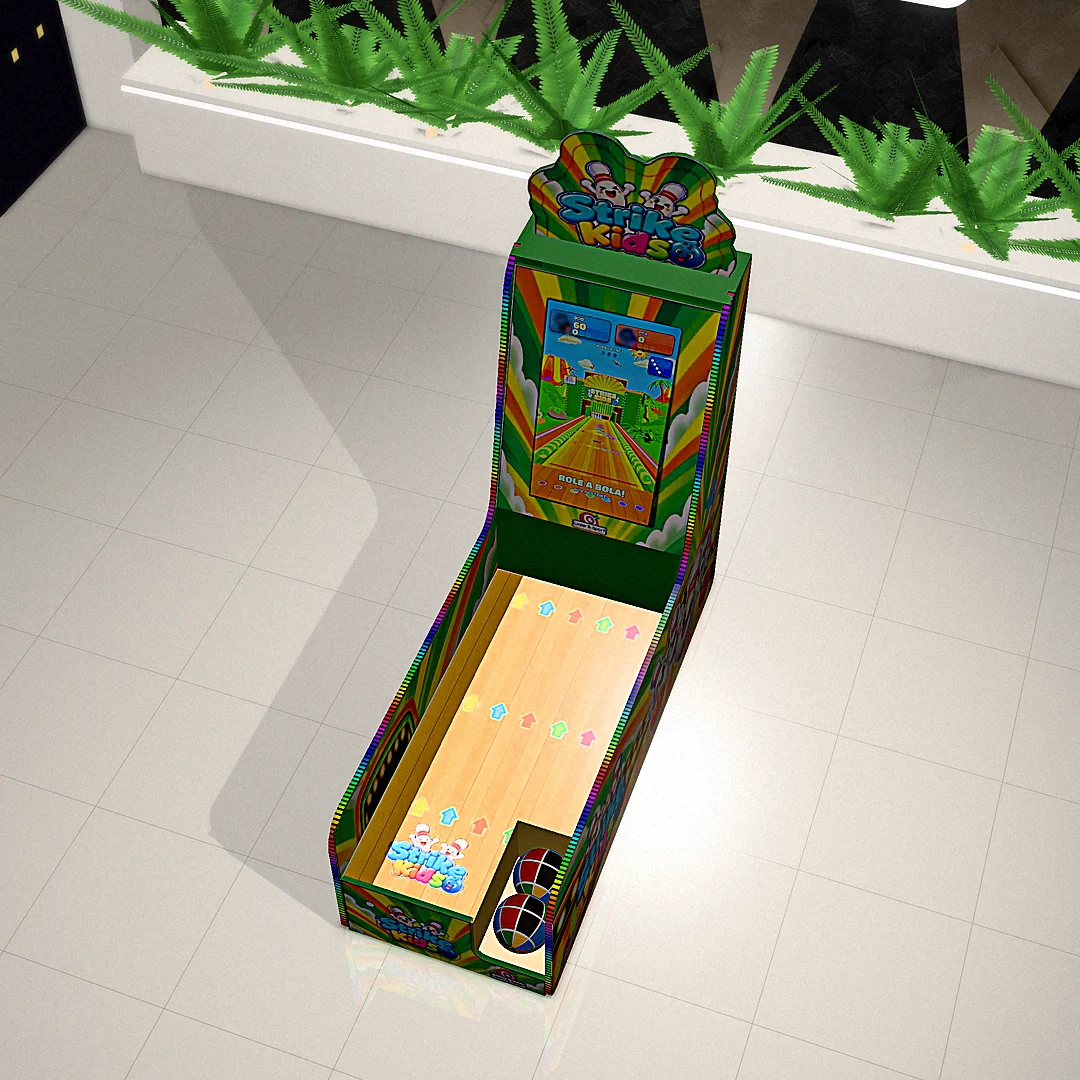
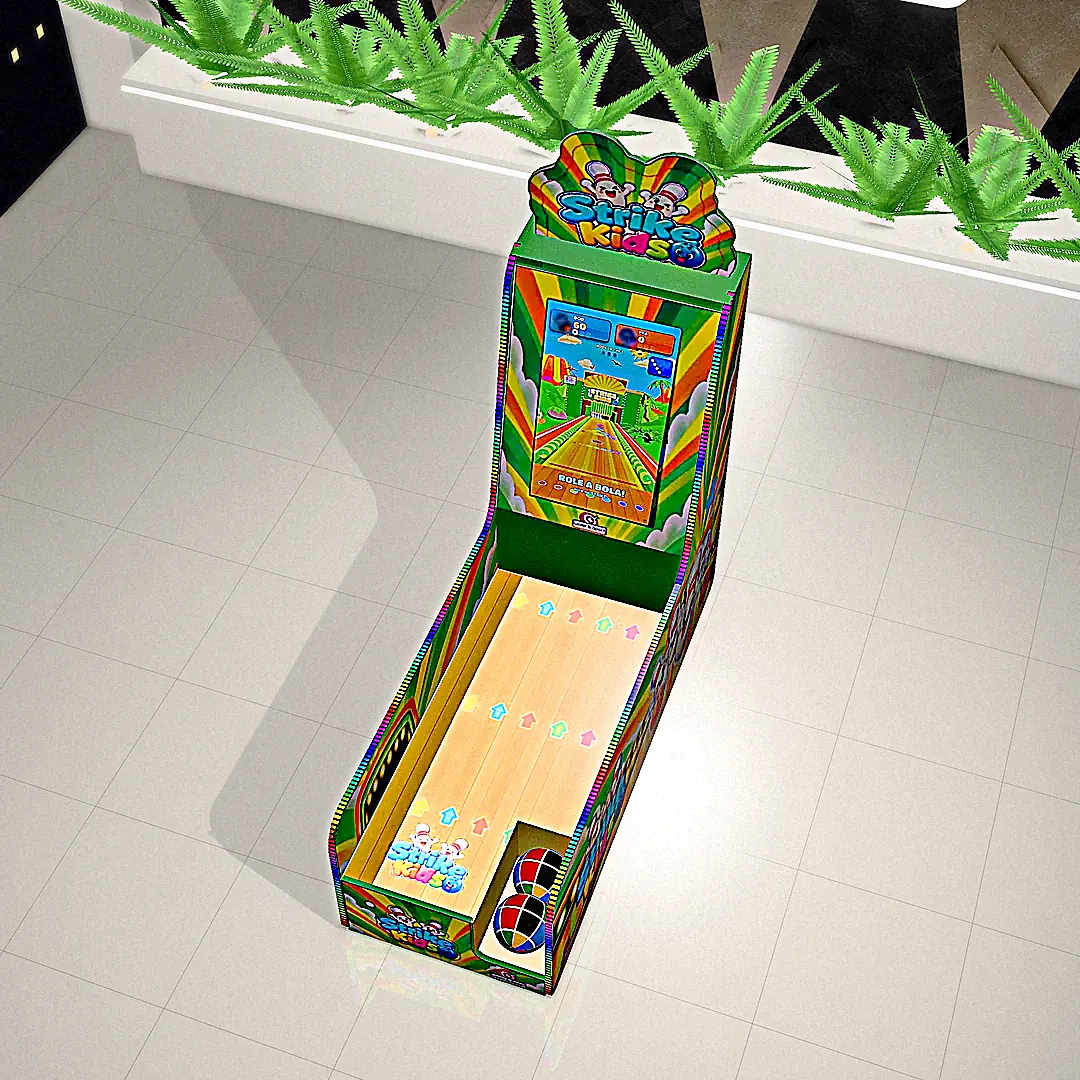
Strike Kids mais vivo e nítido (capa e vistas) + migração que sobe no deploy
Os meios-tons da máquina mais claros, a cor, o volume e a nitidez, só onde
há cor (o fundo da cena só ganha nitidez). A 0164 (só no Render) refaz a
galeria do Strike Kids se ainda é a do cadastro.

Claude-Session: https://claude.ai/code/session_01BdLQMKFKjxTHdFwtnUJngg

Changed region(s): [[0.0306, 0.0, 1.0, 0.9167]]

diff --git a/core/migrations/0164_strike_kids_mais_vivo.py b/core/migrations/0164_strike_kids_mais_vivo.py
@@ -1,0 +1,48 @@
+"""O Strike Kids mais vivo e nítido (LEIA-ME, seção 74).
+
+O cliente: "olha como está escuro o brinquedo, faça bem vivo e nítido". A
+capa e as vistas da galeria (core/static/site/arena/modelos/strike-kids/)
+foram refeitas: os meios-tons da máquina sobem (gama), a cor e a nitidez
+também, só onde há cor (o brinquedo); o fundo da cena só ganha nitidez.
+
+SÓ NO RENDER (o Cloudinary só está lá): se a galeria do Strike Kids ainda é
+a que o cadastro subiu (e não fotos trocadas no painel), ela é refeita com
+as fotos de hoje. Se a subida falhar, o deploy segue e o aviso diz o comando:
+    python manage.py cadastrar_modelo_3d strike-kids --fotos
+"""
+
+from django.db import migrations, transaction
+
+
+def refazer(apps, schema_editor):
+    from django.conf import settings
+
+    from core.cadastro_modelos import CADASTROS, cadastrar, fotos_do_cadastro
+
+    if not getattr(settings, "IS_RENDER", False):
+        return
+    chave = "strike-kids"
+    Brinquedos = apps.get_model("core", "Brinquedos")
+    brinquedo = Brinquedos.objects.filter(nome_brinquedo=CADASTROS[chave]["nome"]).first()
+    if brinquedo is None or not fotos_do_cadastro(brinquedo, chave):
+        return
+    try:
+        with transaction.atomic():
+            cadastrar(
+                chave, Brinquedos, apps.get_model("core", "CategoriasBrinquedos"),
+                apps.get_model("core", "ImagemBrinquedo"), refazer_fotos=True, avisar=lambda *_: None,
+            )
+    except Exception as erro:  # o deploy segue; o comando refaz depois
+        print(f"As fotos do Strike Kids não foram refeitas agora ({erro!r}). "
+              "Rode: python manage.py cadastrar_modelo_3d strike-kids --fotos")
+
+
+class Migration(migrations.Migration):
+
+    dependencies = [
+        ("core", "0163_black_friday_2026"),
+    ]
+
+    operations = [
+        migrations.RunPython(refazer, migrations.RunPython.noop),
+    ]

diff --git a/ferramentas/categorias/realcar_brinquedo.py b/ferramentas/categorias/realcar_brinquedo.py
@@ -1,0 +1,35 @@
+"""Realça um brinquedo escuro (a capa e as vistas do Strike Kids, LEIA-ME 74).
+
+Só onde há cor (o brinquedo): os meios-tons sobem (gama 0,6), a cor (1,2x),
+o volume (unsharp largo) e a nitidez (unsharp fino); o fundo só ganha nitidez.
+
+    python ferramentas/categorias/realcar_brinquedo.py origem.webp destino.webp [...]
+"""
+import sys
+import numpy as np
+from PIL import Image, ImageFilter, ImageEnhance
+
+def realcar(im):
+    im = im.convert("RGB")
+    hsv = np.asarray(im.convert("HSV"), dtype=np.float32)
+    s, v = hsv[..., 1] / 255, hsv[..., 2] / 255
+    # o brinquedo (e o que tem cor): saturado e nem preto nem estourado
+    m = np.clip((s - 0.18) / 0.17, 0, 1) * np.clip((v - 0.10) / 0.12, 0, 1) * np.clip((0.97 - v) / 0.05, 0, 1)
+    mask = Image.fromarray((m * 255).astype(np.uint8)).filter(ImageFilter.MaxFilter(5)).filter(ImageFilter.GaussianBlur(4))
+    # luz: os meios-tons sobem (gama), o preto e o branco quase não mudam
+    arr = np.asarray(im, dtype=np.float32) / 255
+    claro = np.power(arr, 0.6)
+    claro = Image.fromarray((np.clip(claro, 0, 1) * 255).astype(np.uint8))
+    claro = ImageEnhance.Color(claro).enhance(1.2)
+    claro = claro.filter(ImageFilter.UnsharpMask(radius=max(2, im.width // 90), percent=40, threshold=2))  # volume
+    claro = claro.filter(ImageFilter.UnsharpMask(radius=1.3, percent=120, threshold=2))  # nitidez
+    claro = ImageEnhance.Contrast(claro).enhance(1.08)
+    # o fundo só ganha nitidez
+    fundo = im.filter(ImageFilter.UnsharpMask(radius=1.2, percent=50, threshold=3))
+    return Image.composite(claro, fundo, mask)
+
+if __name__ == "__main__":
+    for origem, destino in zip(sys.argv[1::2], sys.argv[2::2]):
+        im = Image.open(origem)
+        realcar(im).save(destino, "WEBP", quality=90, method=6)
+        print(destino)
